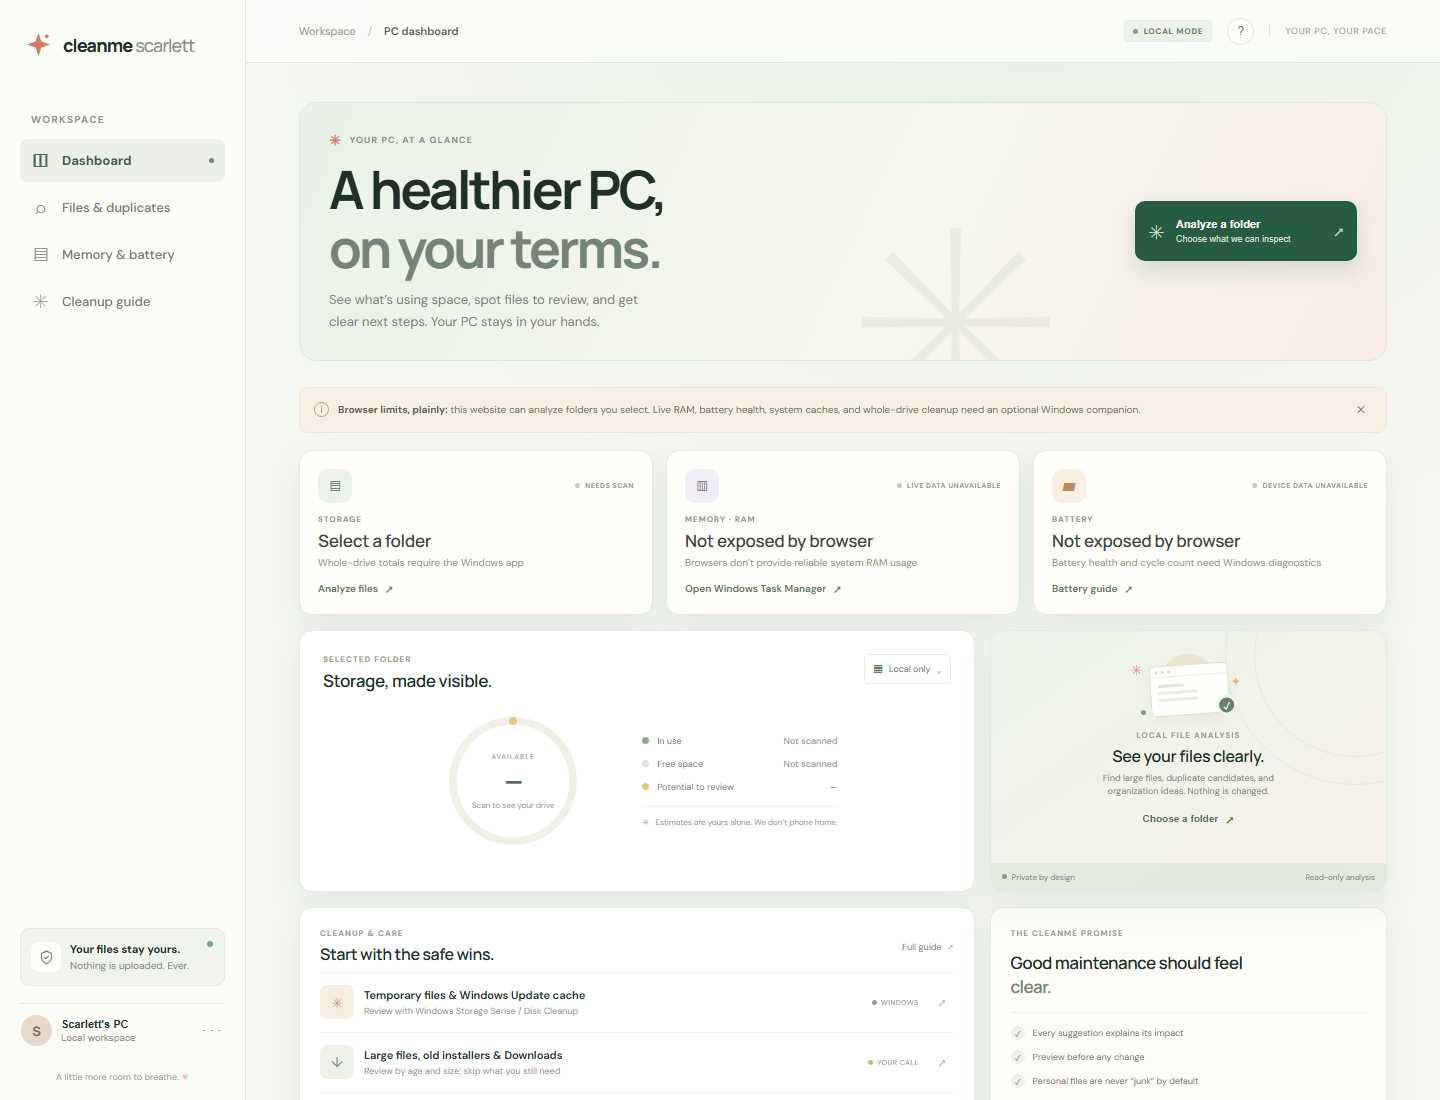
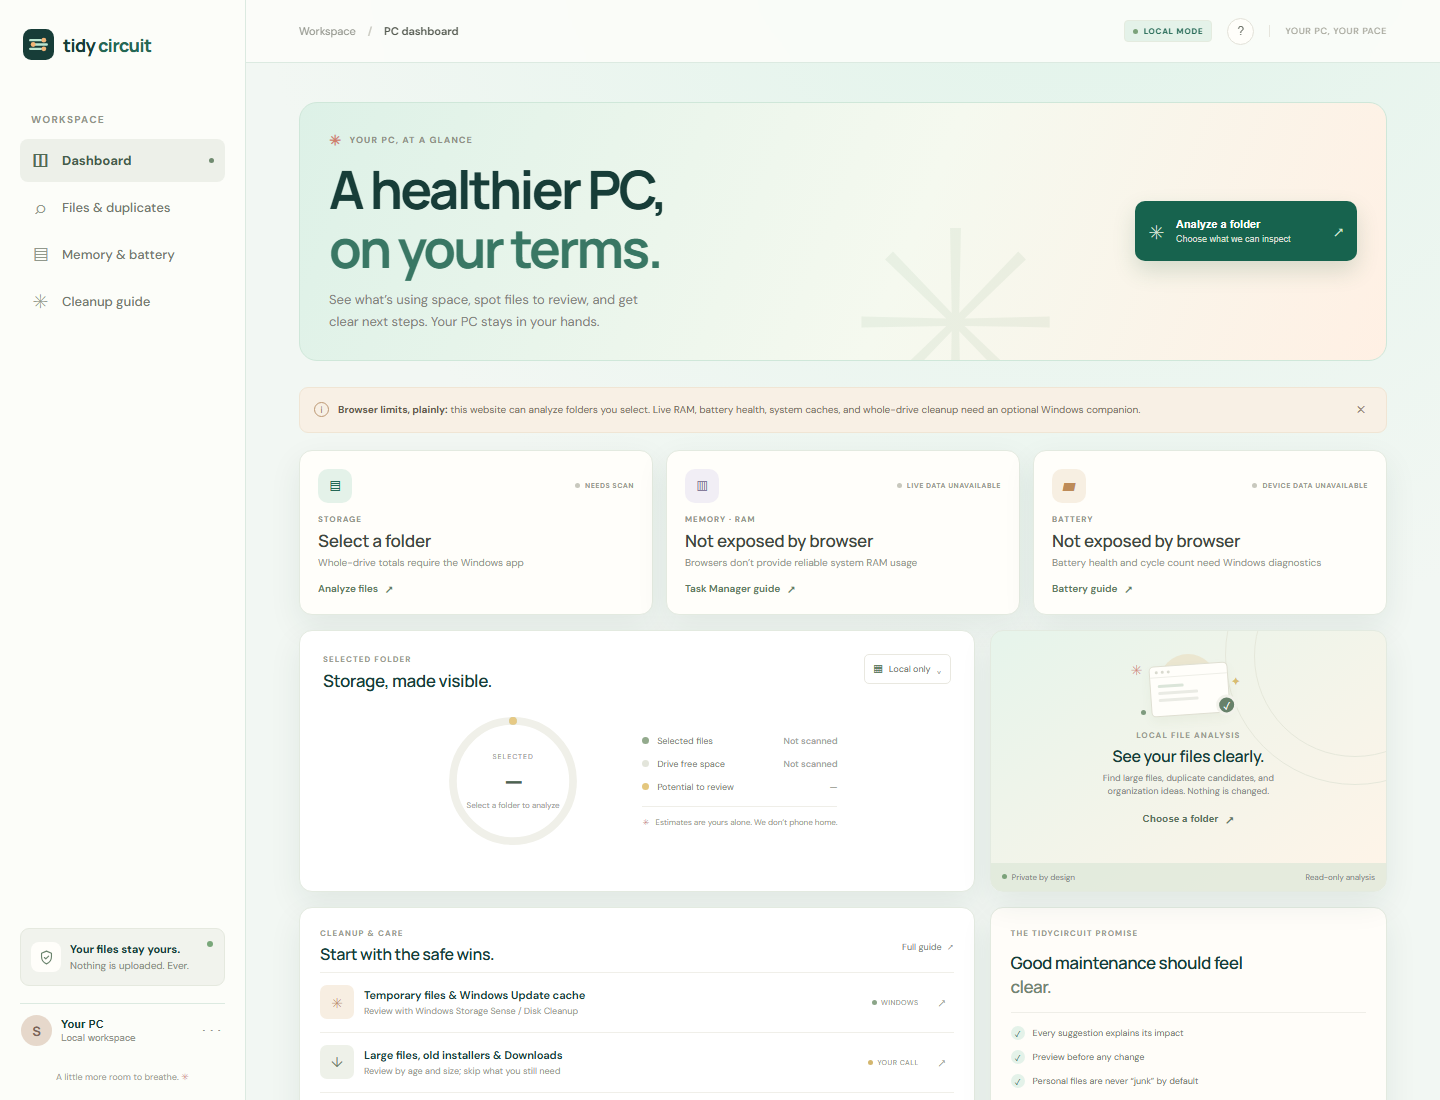
Rebrand dashboard and docs as TidyCircuit

diff --git a/index.html b/index.html
@@ -5,19 +5,20 @@
   <meta name="viewport" content="width=device-width, initial-scale=1">
   <meta name="theme-color" content="#f5f4f0">
   <meta name="description" content="A transparent, local-first companion for understanding and cleaning up PC storage.">
-  <title>CleanMeScarlett — make room, safely</title>
+  <title>TidyCircuit — make room, safely</title>
   <link rel="preconnect" href="https://fonts.googleapis.com">
   <link rel="preconnect" href="https://fonts.gstatic.com" crossorigin>
   <link href="https://fonts.googleapis.com/css2?family=DM+Mono:wght@400;500&family=DM+Sans:wght@400;500;600;700&family=Manrope:wght@400;500;600;700;800&display=swap" rel="stylesheet">
+  <link rel="icon" type="image/svg+xml" href="assets/icon.svg">
   <link rel="stylesheet" href="styles.css">
   <script src="app.js" defer></script>
 </head>
 <body>
   <div class="app-shell">
     <aside class="sidebar">
-      <a class="brand" href="#top" aria-label="CleanMeScarlett home">
-        <span class="brand-mark"><svg viewBox="0 0 36 36" aria-hidden="true"><path d="M18 4.5 21.5 14.5 31.5 18 21.5 21.5 18 31.5 14.5 21.5 4.5 18 14.5 14.5Z"/><circle cx="27.5" cy="8.5" r="2.2"/></svg></span>
-        <span class="brand-name">cleanme<span>scarlett</span></span>
+      <a class="brand" href="#top" aria-label="TidyCircuit home">
+        <span class="brand-mark"><img src="assets/icon.svg" alt="" width="31" height="31"></span>
+        <span class="brand-name">tidy<span>circuit</span></span>
       </a>
       <div class="side-label">WORKSPACE</div>
       <nav class="side-nav" aria-label="Main navigation">
@@ -28,7 +29,7 @@
       </nav>
       <div class="sidebar-bottom">
         <div class="privacy-card"><div class="privacy-icon"><svg viewBox="0 0 24 24" aria-hidden="true"><path d="M12 3 5 6v5c0 4.8 2.9 8.4 7 10 4.1-1.6 7-5.2 7-10V6l-7-3Z"/><path d="m9 12 2 2 4-4"/></svg></div><div><strong>Your files stay yours.</strong><p>Nothing is uploaded. Ever.</p></div><span class="privacy-live"></span></div>
-        <button class="profile-button" type="button" aria-label="Local profile"><span class="avatar">S</span><span class="profile-copy"><strong>Scarlett's PC</strong><small>Local workspace</small></span><span class="profile-menu">···</span></button>
+        <button class="profile-button" type="button" aria-label="Local profile"><span class="avatar">S</span><span class="profile-copy"><strong>Your PC</strong><small>Local workspace</small></span><span class="profile-menu">···</span></button>
         <div class="sidebar-foot">A little more room to breathe. <span>✳</span></div>
       </div>
     </aside>
@@ -42,8 +43,8 @@
 
         <section class="metric-grid" aria-label="PC status overview">
           <article class="metric-card"><div class="metric-top"><span class="metric-icon storage-icon">▤</span><span class="metric-status unknown"><i></i> NEEDS SCAN</span></div><div class="metric-label">STORAGE</div><strong class="metric-value" id="metric-storage">Select a folder</strong><div class="metric-detail" id="metric-storage-detail">Whole-drive totals require the Windows app</div><button class="metric-action" data-action="folder">Analyze files <span>↗</span></button></article>
-          <article class="metric-card" id="memory"><div class="metric-top"><span class="metric-icon memory-icon">▥</span><span class="metric-status unknown"><i></i> LIVE DATA UNSELECTED</span></div><div class="metric-label">MEMORY · RAM</div><strong class="metric-value" id="metric-ram">Not exposed by browser</strong><div class="metric-detail">Browsers don’t provide reliable system RAM usage</div><a class="metric-action" href="#cleanup">Task Manager guide <span>↗</span></a></article>
-          <article class="metric-card"><div class="metric-top"><span class="metric-icon battery-icon">▰</span><span class="metric-status unknown"><i></i> DEVICE DATA UNSELECTED</span></div><div class="metric-label">BATTERY</div><strong class="metric-value" id="metric-battery">Not exposed by browser</strong><div class="metric-detail">Battery health and cycle count need Windows diagnostics</div><a class="metric-action" href="#battery-guide">Battery guide <span>↗</span></a></article>
+          <article class="metric-card" id="memory"><div class="metric-top"><span class="metric-icon memory-icon">▥</span><span class="metric-status unknown"><i></i> LIVE DATA UNAVAILABLE</span></div><div class="metric-label">MEMORY · RAM</div><strong class="metric-value" id="metric-ram">Not exposed by browser</strong><div class="metric-detail">Browsers don’t provide reliable system RAM usage</div><a class="metric-action" href="#cleanup">Task Manager guide <span>↗</span></a></article>
+          <article class="metric-card"><div class="metric-top"><span class="metric-icon battery-icon">▰</span><span class="metric-status unknown"><i></i> DEVICE DATA UNAVAILABLE</span></div><div class="metric-label">BATTERY</div><strong class="metric-value" id="metric-battery">Not exposed by browser</strong><div class="metric-detail">Battery health and cycle count need Windows diagnostics</div><a class="metric-action" href="#battery-guide">Battery guide <span>↗</span></a></article>
         </section>
 
         <section class="storage-grid" aria-label="Selected folder details">
@@ -54,17 +55,16 @@
         </section>
 
         <section class="lower-grid" id="recommendations"><article class="recommendations-card"><div class="lower-heading"><div><div class="section-kicker">CLEANUP &amp; CARE</div><h2>Start with the safe wins.</h2></div><a href="#cleanup" class="view-all">Full guide <span>↗</span></a></div><div class="recommendation-list"><div class="recommendation"><div class="rec-icon temp">✳</div><div class="rec-copy"><strong>Temporary files &amp; Windows Update cache</strong><span>Review with Windows Storage Sense / Disk Cleanup</span></div><span class="rec-tag safe"><i></i> WINDOWS</span><a class="rec-arrow" href="#cleanup" aria-label="Open cleanup guide">↗</a></div><div class="recommendation"><div class="rec-icon downloads">↓</div><div class="rec-copy"><strong>Large files, old installers &amp; Downloads</strong><span>Review by age and size; skip what you still need</span></div><span class="rec-tag review"><i></i> YOUR CALL</span><button class="rec-arrow rec-folder" aria-label="Choose folder to review">↗</button></div><div class="recommendation"><div class="rec-icon duplicates">≋</div><div class="rec-copy"><strong>Duplicate candidates</strong><span>Grouped by matching size and name; verify before action</span></div><span class="rec-tag later"><i></i> LOCAL SCAN</span><span class="rec-arrow muted">· · ·</span></div></div></article>
-          <article class="principles-card"><div class="section-kicker">THE CLEANME PROMISE</div><div class="principle-quote">Good maintenance should feel <span>clear.</span></div><div class="principles-rule"></div><div class="principle-row"><span class="principle-check">✓</span><span>Every suggestion explains its impact</span></div><div class="principle-row"><span class="principle-check">✓</span><span>Preview before any change</span></div><div class="principle-row"><span class="principle-check">✓</span><span>Personal files are never “junk” by default</span></div><a href="#about" class="principles-link">Privacy &amp; safety principles <span>↗</span></a></article></section>
+          <article class="principles-card"><div class="section-kicker">THE TIDYCIRCUIT PROMISE</div><div class="principle-quote">Good maintenance should feel <span>clear.</span></div><div class="principles-rule"></div><div class="principle-row"><span class="principle-check">✓</span><span>Every suggestion explains its impact</span></div><div class="principle-row"><span class="principle-check">✓</span><span>Preview before any change</span></div><div class="principle-row"><span class="principle-check">✓</span><span>Personal files are never “junk” by default</span></div><a href="#about" class="principles-link">Privacy &amp; safety principles <span>↗</span></a></article></section>
 
         <section class="analysis-panel" id="analyze" hidden><div class="analysis-header"><div><div class="section-kicker">LOCAL FOLDER ANALYSIS</div><h2 id="analysis-title">Here’s what we found.</h2><p id="analysis-subtitle"></p></div><button id="close-analysis" class="icon-button" aria-label="Close folder analysis">×</button></div><div class="analysis-stats"><div><span>FILES</span><strong id="file-count">0</strong></div><div><span>FOLDER SIZE</span><strong id="folder-size">0 B</strong></div><div><span>LARGEST FILE</span><strong id="largest-file">—</strong></div><div><span>DUPLICATE CANDIDATES</span><strong id="duplicate-count">0</strong></div></div><div class="analysis-content"><div><div class="table-heading">LARGEST FILES <span>(on this device only)</span></div><div id="file-list" class="file-list"></div><div class="table-heading group-heading">DUPLICATE CANDIDATES <span>(same name and size; review manually)</span></div><div id="duplicate-list" class="file-list"></div><div class="table-heading group-heading">ORGANIZATION IDEAS <span>(suggestions only, no files moved)</span></div><div id="organize-list" class="file-list"></div></div><div class="analysis-aside"><div class="local-note-icon">⌕</div><strong>Find things, don’t rush things.</strong><p>Large files and duplicate candidates are clues to review, not automatic cleanup targets. Confirm each item is safe to move or remove.</p><button id="choose-another" class="outline-button">Choose another folder</button></div></div></section>
 
         <section class="detail-grid" id="cleanup"><article class="detail-card"><div class="section-kicker">RAM · WHAT IT IS &amp; WHAT TO DO</div><h2>Memory is active workspace.</h2><p>RAM is not a junk drawer. Clearing standby memory or running “RAM booster” tricks can make Windows reload data and feel slower. If the PC feels sluggish, find which apps are using memory and close only what you recognize.</p><ol><li>Press <kbd>Ctrl</kbd> + <kbd>Shift</kbd> + <kbd>Esc</kbd> for Task Manager.</li><li>Open <strong>Processes</strong>, sort by <strong>Memory</strong>.</li><li>Save work first; close an app only if you know what it is.</li></ol><a class="guide-button" href="ms-settings:about">View Windows system details <span>↗</span></a></article><article class="detail-card" id="battery-guide"><div class="section-kicker">BATTERY · HEALTH, NOT HYPE</div><h2>Check the battery’s real report.</h2><p>Windows can create a local battery report showing design capacity, current full-charge capacity, and recent usage. This browser cannot read battery wear or cycle count directly.</p><ol><li>Open Start and search for <strong>Command Prompt</strong>.</li><li>Run <code>powercfg /batteryreport</code>.</li><li>Open the saved HTML report and compare full-charge capacity with design capacity.</li></ol><p class="guide-caution">Capacity is an estimate and varies with age, temperature, and calibration.</p></article><article class="detail-card wide"><div class="section-kicker">CACHE &amp; DISK CLEANUP · SAFE ROUTE MAP</div><h2>Use the owner of each cache.</h2><div class="cleanup-map"><div><strong>Windows temp &amp; update cleanup</strong><span>Settings → System → Storage → Temporary files / Storage Sense</span><small>Review categories. Old update files can reduce rollback options.</small></div><div><strong>Browser cache</strong><span>Use the browser’s own Clear browsing data screen</span><small>Select cached images/files only if you want to keep logins and history.</small></div><div><strong>App caches</strong><span>Use each app’s built-in storage controls</span><small>Do not delete AppData folders blindly; caches may contain offline work.</small></div><div><strong>Downloads, duplicates &amp; archives</strong><span>Analyze a chosen folder above, then review manually</span><small>Duplicates are candidates; same name and size does not prove identical contents.</small></div></div><a class="guide-button" href="ms-settings:storagepolicies">Open Windows Storage settings <span>↗</span></a></article></section>
         <section class="windows-guide" id="guide"><div class="guide-icon">▦</div><div><div class="section-kicker">NEXT PRODUCT STEP</div><h2>Full-device insights need a signed Windows companion.</h2><p>That’s how we can safely add live RAM, disk, battery, cache inventory, and a reversible cleanup queue.</p></div><a href="ms-settings:storagepolicies" class="guide-button">Windows Storage settings <span>↗</span></a></section>
-        <footer id="about"><span>Made with care, for the space you call yours. <span class="footer-star">✳</span></span><span>CleanMeScarlett <i>·</i> Open source <i>·</i> <a href="https://github.com/wlplease/CleanMeScarlett">View on GitHub ↗</a></span></footer>
+        <footer id="about"><span>Made with care, for the space you call yours. <span class="footer-star">✳</span></span><span>TidyCircuit <i>·</i> Open source <i>·</i> <a href="https://github.com/wlplease/TidyCircuit">View on GitHub ↗</a></span></footer>
       </div>
     </main>
   </div>
   <div id="toast" class="toast" role="status" aria-live="polite"></div>
 </body>
 </html>
-

diff --git a/styles.css b/styles.css
@@ -8,3 +8,4 @@
 @media(max-width:900px){.metric-grid{grid-template-columns:1fr}.metric-card{min-height:125px}.detail-grid{grid-template-columns:1fr}.detail-card.wide{grid-column:auto}}
 /* Visual refinement */
 :root{--paper:#f4f6f2;--white:#fff;--ink:#1e3028;--sage:#315f49;--line:#dfe8dd;--shadow:0 12px 32px rgba(31,64,43,.07)}body{background:radial-gradient(circle at 72% -12%,#e6f1df 0,transparent 34%),var(--paper)}.sidebar{background:#fcfdf9;border-color:var(--line)}.topbar{background:rgba(252,253,249,.88);backdrop-filter:blur(14px);border-color:var(--line)}.page-wrap{max-width:1260px}.welcome-row{padding:27px 29px;background:linear-gradient(115deg,#eaf2e7,#f6f7ed 56%,#f9ede5);border:1px solid #dce9d9;border-radius:18px;min-height:218px;align-items:center;position:relative;overflow:hidden}.welcome-row:after{content:'✳';position:absolute;right:29%;bottom:-95px;font-size:260px;line-height:1;color:rgba(111,151,109,.09);pointer-events:none}.welcome-row>*{position:relative;z-index:1}.welcome-row h1{font-size:clamp(34px,3.8vw,53px);letter-spacing:-2.7px}.welcome-copy{font-size:13px}.scan-button{background:#275c42;border-radius:10px;min-width:222px;height:60px;box-shadow:0 10px 22px rgba(36,93,59,.17)}.scan-button:hover{background:#194a32}.notice{border-radius:9px;padding:11px 14px}.metric-card,.storage-card,.scan-card,.recommendations-card,.principles-card,.detail-card,.analysis-panel{border-radius:13px;border-color:#e3eae0}.metric-card{min-height:158px;padding:18px}.metric-icon{height:34px;width:34px;border-radius:10px}.metric-value{font-size:17px}.metric-detail{font-size:10px;line-height:1.5}.metric-action{margin-top:4px;font-size:10px}.main-storage{padding:23px}.scan-card{background:linear-gradient(145deg,#edf4e9,#f7f1e8)}.scan-card-foot{background:rgba(220,232,216,.72)}.recommendations-card,.principles-card{padding:20px}.recommendation{height:60px}.rec-copy strong{font-size:11px}.rec-copy span{font-size:9px}.rec-icon{height:34px;width:34px}.detail-card{padding:23px}.detail-card p,.detail-card ol{font-size:11px}.detail-card h2{font-size:19px}.cleanup-map>div{padding:13px;border-radius:9px;background:#fbfcf9}.cleanup-map strong{font-size:11px}.cleanup-map span{font-size:10px}.cleanup-map small{font-size:9px}.guide-button{border-radius:7px}.nav-link:focus-visible,button:focus-visible,a:focus-visible{outline:3px solid #d9a579;outline-offset:3px}.file-item{font-size:10px;padding:9px 0}.windows-guide{border-radius:12px;padding:20px}@media(max-width:760px){.welcome-row{padding:23px;min-height:0}.welcome-row h1{letter-spacing:-1.7px}.scan-button{min-width:0}.metric-card{min-height:0}.cleanup-map{grid-template-columns:1fr}.welcome-row:after{right:-30px;font-size:180px;bottom:-65px}}@media(prefers-reduced-motion:reduce){html{scroll-behavior:auto}*,*:before,*:after{transition:none!important;animation:none!important}}
+:root{--paper:#F2F7F3;--white:#FFFFFF;--ink:#173D38;--sage:#246855;--sage-soft:#E4F2E9;--coral:#ECA46E;--yellow:#F4B678;--line:#DCEAE1;--shadow:0 12px 32px rgba(23,61,56,.08)}body{background:radial-gradient(circle at 75% -10%,#DFF3E9,transparent 36%),var(--paper)}.brand-mark{color:#246855}.brand-name{letter-spacing:-.7px}.brand-name span{color:#246855;font-weight:800}.welcome-row{background:linear-gradient(112deg,#DDF1E7,#F5F9EF 56%,#FFF0E4);border-color:#CFE7D9}.welcome-row h1 span{color:#397764}.scan-button{background:#17634E}.scan-button:hover{background:#124B3D}.local-badge{background:#E4F2E9;color:#246855}.metric-icon.storage-icon,.principle-check{background:#E4F2E9;color:#246855}.scan-card{background:linear-gradient(145deg,#E6F4EB,#FFF4E8)}.windows-guide{background:#E3F1E9;border-color:#CBE5D4}a:hover,.metric-action:hover,.text-button:hover{color:#C47745}

diff --git a/README.md b/README.md
@@ -1,14 +1,16 @@
-# CleanMeScarlett
+# TidyCircuit
+
+![TidyCircuit brand mark](assets/wordmark.svg)
 
 ### A clearer view of your PC. A calmer way to clean.
 
-CleanMeScarlett is a free, open-source project for understanding storage and making careful cleanup decisions. The current release is a local folder analyzer and Windows maintenance guide. It does not delete files, run in the background, or upload your file list.
+TidyCircuit is a free, open-source project for understanding storage and making careful cleanup decisions. The current release is a local folder analyzer and Windows maintenance guide. It does not delete files, run in the background, or upload your file list.
 
-![CleanMeScarlett desktop dashboard](assets/dashboard-desktop.png)
+![TidyCircuit desktop dashboard](assets/dashboard-desktop.png)
 
 <details><summary>See the mobile layout</summary>
 
-![CleanMeScarlett mobile dashboard](assets/dashboard-mobile.png)
+![TidyCircuit mobile dashboard](assets/dashboard-mobile.png)
 
 </details>
 
@@ -31,6 +33,8 @@ CleanMeScarlett is a free, open-source project for understanding storage and mak
 
 The selected folder stays on your computer. The site reads file names and sizes supplied by the browser, and stores no scan results on a server. Folder selection support varies by browser; HTTPS or localhost is recommended for hosting.
 
+The [brand guide](BRAND.md) includes the logo, colors, and voice for contributors.
+
 ## Why this is different
 
 - **Specific recommendations.** A large file is an item to review, never automatic junk.
@@ -48,8 +52,9 @@ See the current [browser interface](index.html) and [implementation](app.js). Co
 
 The front end is static and can be hosted on GitHub Pages or a suitable static host. Vercel's free Hobby plan has [personal, non-commercial use terms](https://vercel.com/docs/plans/hobby); check them before using it for a public service.
 
-**CleanMeScarlett is a working project name.** An initial web search did not establish trademark clearance. Before a public launch or a costly rename, search the [USPTO trademark database](https://tmsearch.uspto.gov/) for exact and confusingly similar names, check state registries and existing product use, and consider a US trademark attorney. The [USPTO's clearance guide](https://www.uspto.gov/trademarks/search/comprehensive-clearance-search-similar-trademarks) explains why an internet search alone is insufficient.
+**TidyCircuit is a working project name.** An initial web search did not establish trademark clearance. Before a public launch or a costly rename, search the [USPTO trademark database](https://tmsearch.uspto.gov/) for exact and confusingly similar names, check state registries and existing product use, and consider a US trademark attorney. The [USPTO's clearance guide](https://www.uspto.gov/trademarks/search/comprehensive-clearance-search-similar-trademarks) explains why an internet search alone is insufficient.
 
 ## Privacy and safety
 
 The current web app performs read-only analysis in the browser. It does not request administrator access or connect to a cleanup service. Avoid placing private file names in screenshots or issue reports. Future diagnostics should be opt-in and inspectable before export.
+

diff --git a/BRAND.md b/BRAND.md
@@ -1,0 +1,28 @@
+# TidyCircuit brand
+
+**Position:** Calm, capable PC care. The product explains what it sees and gives people control over what changes.
+
+## Identity
+
+- Name: **TidyCircuit** (working name; formal trademark clearance pending).
+- Tagline: **A clearer view of your PC. A calmer way to clean.**
+- Voice: plain, specific, reassuring. Say “review this file,” never “fix dangerous junk.”
+- Logo: three horizontal circuit traces, paired with warm nodes. The icon is supplied as `assets/icon.svg`; the horizontal lockup is `assets/wordmark.svg`.
+- Logo clearance: original project artwork, created for this repository. The SVG files may be used in the app and project materials.
+
+## Palette
+
+| Role | Hex | Use |
+| --- | --- | --- |
+| Deep pine | `#173D38` | Primary text, logo ground |
+| Evergreen | `#17634E` | Primary actions |
+| Fresh mint | `#BCE7D2` | Circuit traces, highlights |
+| Mist | `#F2F7F3` | Page background |
+| Warm apricot | `#F4B678` | Small accents and status details |
+| White | `#FFFFFF` | Cards and working surfaces |
+
+Use apricot sparingly; green carries the main hierarchy. Never use color alone to explain a cleanup risk.
+
+## Naming check
+
+A quick web screen on 2026-11-01 found no obvious exact-match TidyCircuit software product. This is not legal clearance, domain availability confirmation, or a comprehensive USPTO search. Check the official USPTO database, similar marks, state registries, domains, and common-law use before registering or launching under the name.
